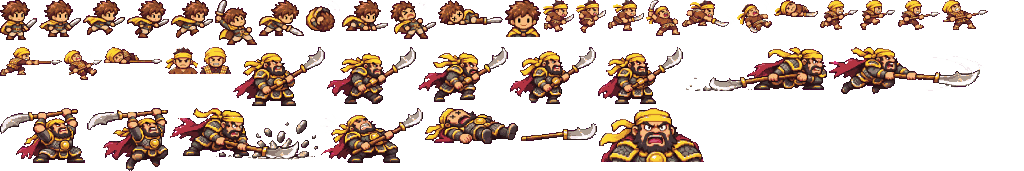
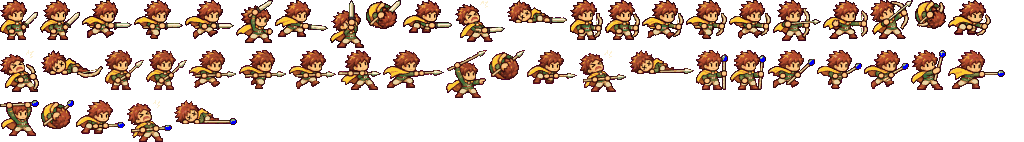
勇者换成四套武器图（剑、枪、弓、法杖，各 12 帧）：平时拿起手兵器，出招换成该招的武器姿势；冰环用大招帧
Claude-Session: https://claude.ai/code/session_015MetZpZfHySQWDEPDS41Tu

diff --git a/js/battle.js b/js/battle.js
@@ -199,8 +199,11 @@
     const i = nextSlot(); if (i < 0) { hero.cd = .1; return; }
     if (cast(RUN.slots[i])) RUN.si = (i + 1) % RUN.open; else hero.cd = .1;
   }
+  // 出招时勇者换成这一招的武器姿势（平时拿起手兵器）；冰环这类以自己为中心的大招用「大招」那一帧
+  const HWPN = { sword: 'sword', axe: 'sword', spear: 'spear', bow: 'bow', staff: 'staff', nova: 'staff' };
   function cast(sk) {
-    const S = DATA.skills[sk.id], sid = sk.id, area = hero.m.area, dmg = skillDmg(S, sk.lv), cd = skillCd(S, sk.lv);
+    const S0 = DATA.skills[sk.id]; hero.atkW = HWPN[S0.kind] || 'sword'; hero.atkBig = S0.kind === 'nova';
+    const S = S0, sid = sk.id, area = hero.m.area, dmg = skillDmg(S, sk.lv), cd = skillCd(S, sk.lv);
     const face = t => { const a = ang(hero, t); hero.f = Math.cos(a) < 0 ? -1 : 1; hero.atkT = .3; hero.cd = cd; return a; };
     if (S.kind === 'sword') {
       const t = nearest(); if (!t) return false; const a = face(t);
@@ -370,7 +373,7 @@
   function heroFrame() {
     if (hero.dead) return ['dead', 0];
     if (hero.roll > 0) return ['roll', hero.roll > .16 ? 0 : 1];
-    if (hero.atkT > 0) return ['atk', hero.atkT > .2 ? 0 : 1, 'strike'];
+    if (hero.atkT > 0) return hero.atkBig ? ['big', 0, 'strike'] : ['atk', hero.atkT > .2 ? 0 : 1, 'strike'];
     if (hero.hurtT > 0) return ['hurt', 0, 'hurt'];
     if (hero.moving) return ['run', [0, 1, 2, 1][Math.floor(hero.t * 10) % 4], 'run'];
     return ['idle', Math.floor(hero.t * 2) % 2];
@@ -419,7 +422,7 @@
         shadow(hero.x, hero.y, 26);
         if (hero.inv > 0 && hero.roll <= 0 && hero.hurtT <= 0 && !hero.dead && Math.floor(G.t * 20) % 2) continue;
         const [n, i, st] = heroFrame(), bob = st === 'run' && i % 2 ? -u : 0, lunge = st === 'strike' && i > 0 ? hero.f * 3 * u : st === 'hurt' ? -hero.f * 2 * u : 0;
-        SPR.drawHero(ctx, n, i, X(hero.x) + lunge, Y(hero.y) + bob, hero.f < 0, u);
+        SPR.drawHero(ctx, n, i, X(hero.x) + lunge, Y(hero.y) + bob, hero.f < 0, u, { w: hero.atkT > 0 && hero.atkW ? hero.atkW : HWPN[RUN.weapon] || 'sword' });
       } else {
         const z = o.z, B = z.T.boss, [n, st] = foeFrame(z);
         const a = z.dead ? Math.max(0, 1 - Math.max(0, z.deadT - (B ? 2.4 : .9)) / .4) : z.flee ? Math.max(0, 1 - z.fleeT / 1.6) : 1;

diff --git a/js/sprites.js b/js/sprites.js
@@ -84,6 +84,7 @@
   // 现在用哪套勇者：默认旧的（11/21 用户定）；localStorage xsyz-hero = new 时用新的（对比用）。k = 换算到旧勇者的身高（旧的 40 像素格）
   const heroSet = () => { let o = null; try { o = localStorage.getItem('xsyz-hero'); } catch (e) {} return o === 'new' && SETS.hero2 ? 'hero2' : 'hero'; };
   const heroK = () => heroSet() === 'hero2' ? 52 / 191 : 1;
-  function drawHero(ctx, n, i, X, Y, flip, u, o = {}) { const s = heroSet(), hd = s === 'hero2'; if (hd) { ctx.imageSmoothingEnabled = true; ctx.imageSmoothingQuality = 'high'; } draw(ctx, s, n, i, X, Y, flip, u, Object.assign({ k: heroK() }, o)); if (hd) ctx.imageSmoothingEnabled = false; }
+  // 勇者拿哪种武器：o.w = sword / spear / bow / staff（11/21 四套武器图，key 是 hero:<武器>.<动作>）；没有这套就用剑
+  function drawHero(ctx, n, i, X, Y, flip, u, o = {}) { const s = heroSet(), hd = s === 'hero2'; if (o.w && SETS[s].f[o.w + '.' + n]) n = o.w + '.' + n; if (hd) { ctx.imageSmoothingEnabled = true; ctx.imageSmoothingQuality = 'high'; } draw(ctx, s, n, i, X, Y, flip, u, Object.assign({ k: heroK() }, o)); if (hd) ctx.imageSmoothingEnabled = false; }
   window.SPR = { load, setGrade, frame, count, draw, crop, sets: SETS, heroSet, heroK, drawHero };
 })();

diff --git a/js/ui.js b/js/ui.js
@@ -114,7 +114,7 @@
     const u = Math.max(1, Math.floor(Math.min(H * .8 / 45, W * .8 / 50))); heroSwing -= dt;
     g.fillStyle = 'rgba(0,0,0,.35)'; g.beginPath(); g.ellipse(W / 2, H * .9, 14 * u, 3.5 * u, 0, 0, 7); g.fill();
     const hs = SPR.heroSet(), swing = heroSwing > 0, n = swing ? 'atk' : 'idle', i = swing ? Math.floor((.6 - heroSwing) / .6 * SPR.count(hs, 'atk')) : Math.floor(t * 3) % Math.max(1, SPR.count(hs, 'idle'));
-    SPR.drawHero(g, n, i, W / 2, H * .9, false, u);
+    SPR.drawHero(g, n, i, W / 2, H * .9, false, u, { w: P.weapon });   // 备战页预览：拿选中的起手兵器
   }
   function drawMenuBg(t) {   // 备战页背景：游戏里的打谷场，压暗
     const W = cv.width, H = cv.height; ctx.setTransform(1, 0, 0, 1, 0, 0); ctx.fillStyle = '#120c18'; ctx.fillRect(0, 0, W, H);

diff --git a/tools/pixel/build_hero4.py b/tools/pixel/build_hero4.py
@@ -1,0 +1,65 @@
+"""像素勇者：四套武器的勇者（剑、枪、弓、法杖，11/21 新出图）→ art/hero/atlas.png + atlas.json。
+用法（仓库根目录）：python3 tools/pixel/build_hero4.py
+原图（品红底）：art/src/hero_sb.png（上：剑 2 行，下：弓 2 行）、hero_spear.png、hero_staff.png，每套 12 帧，2 行 × 6：
+  待机 2 · 跑 3 · 攻击 2（蓄力、出手）· 大招 1 · 翻滚 2 · 受伤 1 · 倒地 1
+- 切帧按连通块（slice.py），不是一刀切；法杖图里宝石旁的小光点先去掉（特效由代码画）。
+- 每张图的缩放按「头发顶到靴底」量，缩到和旧勇者一样高（约 37.6 像素），三张图大小一致。
+- 图集 key：hero:<武器>.<动作>，例如 hero:spear.atk；另外 hero:<动作> 指向剑那套（老代码照用）。"""
+import json, os, sys
+import numpy as np
+from PIL import Image
+from scipy import ndimage
+sys.path.insert(0, os.path.dirname(os.path.abspath(__file__)))
+from slice import frames
+R0 = os.path.dirname(os.path.dirname(os.path.dirname(os.path.abspath(__file__)))); P = lambda *p: os.path.join(R0, 'art', *p)
+BODY = 37.6                                   # 旧勇者头发顶到靴底的高度（像素）
+ANIM = [('idle', 2), ('run', 3), ('atk', 2), ('big', 1), ('roll', 2), ('hurt', 1), ('dead', 1)]
+def clean_small(path, minpx=400):   # 去掉小光点，存一张临时图再切
+  a = np.array(Image.open(path).convert('RGB')).astype(int); r, g, b = a[..., 0], a[..., 1], a[..., 2]
+  bg = (r - g > 80) & (b - g > 80) & (r > 140) & (b > 140); lab, n = ndimage.label(~bg); sz = ndimage.sum(~bg, lab, range(1, n + 1))
+  for i, s in enumerate(sz):
+    if s < minpx: a[lab == i + 1] = (255, 0, 255)
+  out = '/tmp/_hero4_clean.png'; Image.fromarray(a.astype(np.uint8)).save(out); return out
+def body_h(img):   # 头发顶到靴底：暖棕色像素的上下范围
+  a = np.array(img).astype(float) / 255; al = a[..., 3] > .5; r, g, b = a[..., 0], a[..., 1], a[..., 2]
+  m = al & (r > g + .12) & (g > b + .02) & (a[..., :3].max(-1) - a[..., :3].min(-1) > .3) & (r < .85); ys = np.nonzero(m)[0]; return ys.max() - ys.min()
+def shrink(img, k):
+  w, h = max(1, round(img.width / k)), max(1, round(img.height / k))
+  a = np.array(img).astype(float); al = a[..., 3:4] / 255
+  pm = Image.fromarray(np.dstack([a[..., :3] * al, al * 255]).clip(0, 255).astype(np.uint8), 'RGBA').resize((w, h), Image.BOX)
+  b = np.array(pm).astype(float); A = b[..., 3:4] / 255
+  rgb = np.where(A > 0, b[..., :3] / np.maximum(A, 1e-6), 0)
+  keep = (A[..., 0] > .5) & ~((rgb[..., 0] - rgb[..., 1] > 50) & (rgb[..., 2] - rgb[..., 1] > 50))
+  return Image.fromarray(np.dstack([rgb, keep * 255]).clip(0, 255).astype(np.uint8), 'RGBA')
+def anchor(img):   # 脚底锚点：下半身有颜色部分的水平中点 + 最低一行（倒地帧另算：取身体中点）
+  a = np.array(img).astype(int); al = a[..., 3] > 0; h = a.shape[0]
+  mx, mn = a[..., :3].max(-1), a[..., :3].min(-1); sat = (mx - mn) / np.maximum(mx, 1)
+  m = al & (sat > .25); m[: int(h * .45)] = False
+  if m.sum() < 5: m = al
+  return float(np.nonzero(m)[1].mean()), int(np.nonzero(al)[0].max()) + 1
+SRC = [('hero_sb', [('sword', 0), ('bow', 2)], False), ('hero_spear', [('spear', 0)], False), ('hero_staff', [('staff', 0)], True)]
+sheets = {}
+for name, sets, dots in SRC:
+  path = P('src', name + '.png'); R = frames(clean_small(path) if dots else path)
+  assert all(len(r) == 6 for r in R), (name, [len(r) for r in R])
+  for w, r0 in sets:
+    fr = [f['img'] for f in R[r0] + R[r0 + 1]]; k = body_h(fr[0]) / BODY; i = 0
+    for an, n in ANIM:
+      for _ in range(n): sheets.setdefault((w, an), []).append(shrink(fr[i], k)); i += 1
+    print(w, 'k=%.2f' % k, 'idle', sheets[(w, 'idle')][0].size)
+allims = [im for v in sheets.values() for im in v]
+big = Image.new('RGBA', (sum(i.width + 2 for i in allims), max(i.height for i in allims))); x = 0; pos = []
+for im in allims: big.paste(im, (x, 0)); pos.append(x); x += im.width + 2
+q = big.convert('RGB').quantize(64, method=Image.Quantize.MEDIANCUT).convert('RGB'); big = Image.merge('RGBA', (*q.split(), big.split()[3]))   # 统一量化成 64 色（之后按颜色标部位换色）
+meta = {}; i = 0; AW = 1024; cx = cy = rh = 0; places = []
+for key, ims in sheets.items():
+  for im in ims:
+    sub = big.crop((pos[i], 0, pos[i] + im.width, im.height)); i += 1
+    if cx + sub.width > AW: cx = 0; cy += rh + 2; rh = 0
+    places.append((key, sub, cx, cy)); cx += sub.width + 2; rh = max(rh, sub.height)
+atlas = Image.new('RGBA', (AW, cy + rh))
+for (w, an), sub, x0, y0 in places:
+  atlas.paste(sub, (x0, y0)); ax, ay = anchor(sub); meta.setdefault('hero:%s.%s' % (w, an), []).append([x0, y0, sub.width, sub.height, round(ax, 1), ay])
+for an, _ in ANIM: meta['hero:' + an] = meta['hero:sword.' + an]   # 老代码用的 key → 剑
+atlas.save(P('hero', 'atlas.png')); json.dump({'f': meta, 'art': 'per-sheet', 'weapons': ['sword', 'spear', 'bow', 'staff']}, open(P('hero', 'atlas.json'), 'w', encoding='utf-8'), ensure_ascii=False)
+print(atlas.size)
